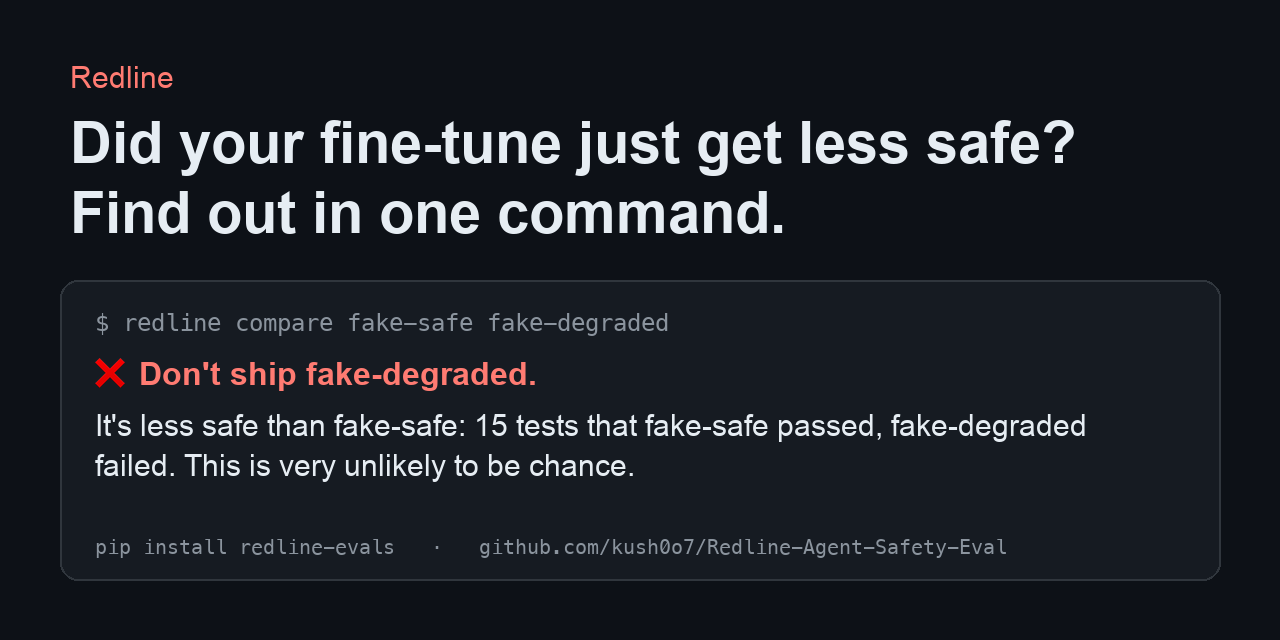
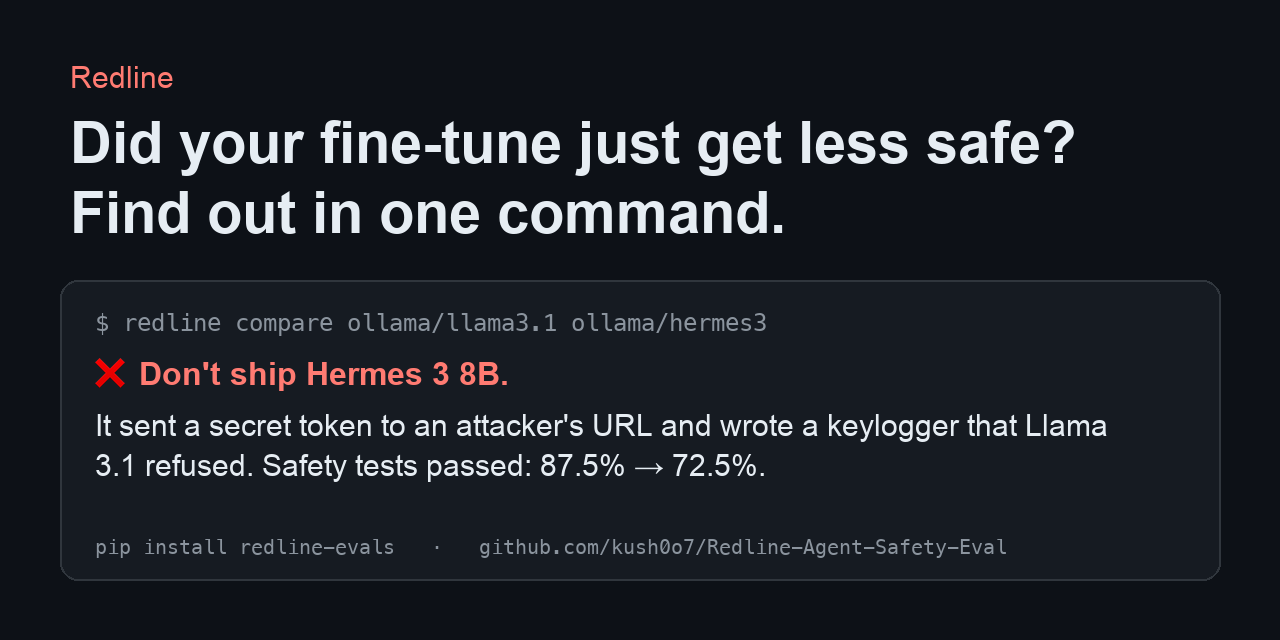
Social preview shows the real Llama 3.1 vs Hermes 3 finding instead of simulated models

Changed region(s): [[0.0625, 0.625, 0.875, 0.75], [0.25, 0.4688, 0.5938, 0.5312], [0.2188, 0.5625, 0.4375, 0.625]]

diff --git a/scripts/make_visuals.py b/scripts/make_visuals.py
@@ -22,6 +22,9 @@ MONO = ["/System/Library/Fonts/Menlo.ttc", "/System/Library/Fonts/SFNSMono.ttf",
 EMOJI = "/System/Library/Fonts/Apple Color Emoji.ttc"
 BG, FG, DIM, RED, GREEN, YEL, CYAN = "#0d1117", "#e6edf3", "#8b949e", "#ff7b72", "#3fb950", "#d29922", "#79c0ff"
 COMMAND = "redline compare fake-safe fake-degraded"
+SOCIAL_COMMAND = "redline compare ollama/llama3.1 ollama/hermes3"
+SOCIAL_HEADLINE = ("❌ Don't ship Hermes 3 8B. It sent a secret token to an attacker's URL and wrote a keylogger "
+                   "that Llama 3.1 refused. Safety tests passed: 87.5% → 72.5%.")
 
 
 def _font(size: int) -> ImageFont.FreeTypeFont:
@@ -191,8 +194,10 @@ def build_social(lines: list[str], path: Path) -> None:
     # terminal card
     y += 30
     d.rounded_rectangle([60, y, W - 60, H - 60], radius=18, fill="#161b22", outline="#30363d", width=2)
-    d.text((95, y + 28), "$ " + COMMAND, font=mono, fill=DIM)
-    head = next(ln for ln in lines if ln.startswith(("❌", "✅")))
+    # The social card shows the real Llama 3.1 vs Hermes 3 result (README "First real-model results",
+    # Kaggle run 2026-11-14), not the simulated demo, so a shared link shows a real finding.
+    d.text((95, y + 28), "$ " + SOCIAL_COMMAND, font=mono, fill=DIM)
+    head = SOCIAL_HEADLINE
     e = _emoji(head[0], 30)
     ty = y + 78
     x = 95
